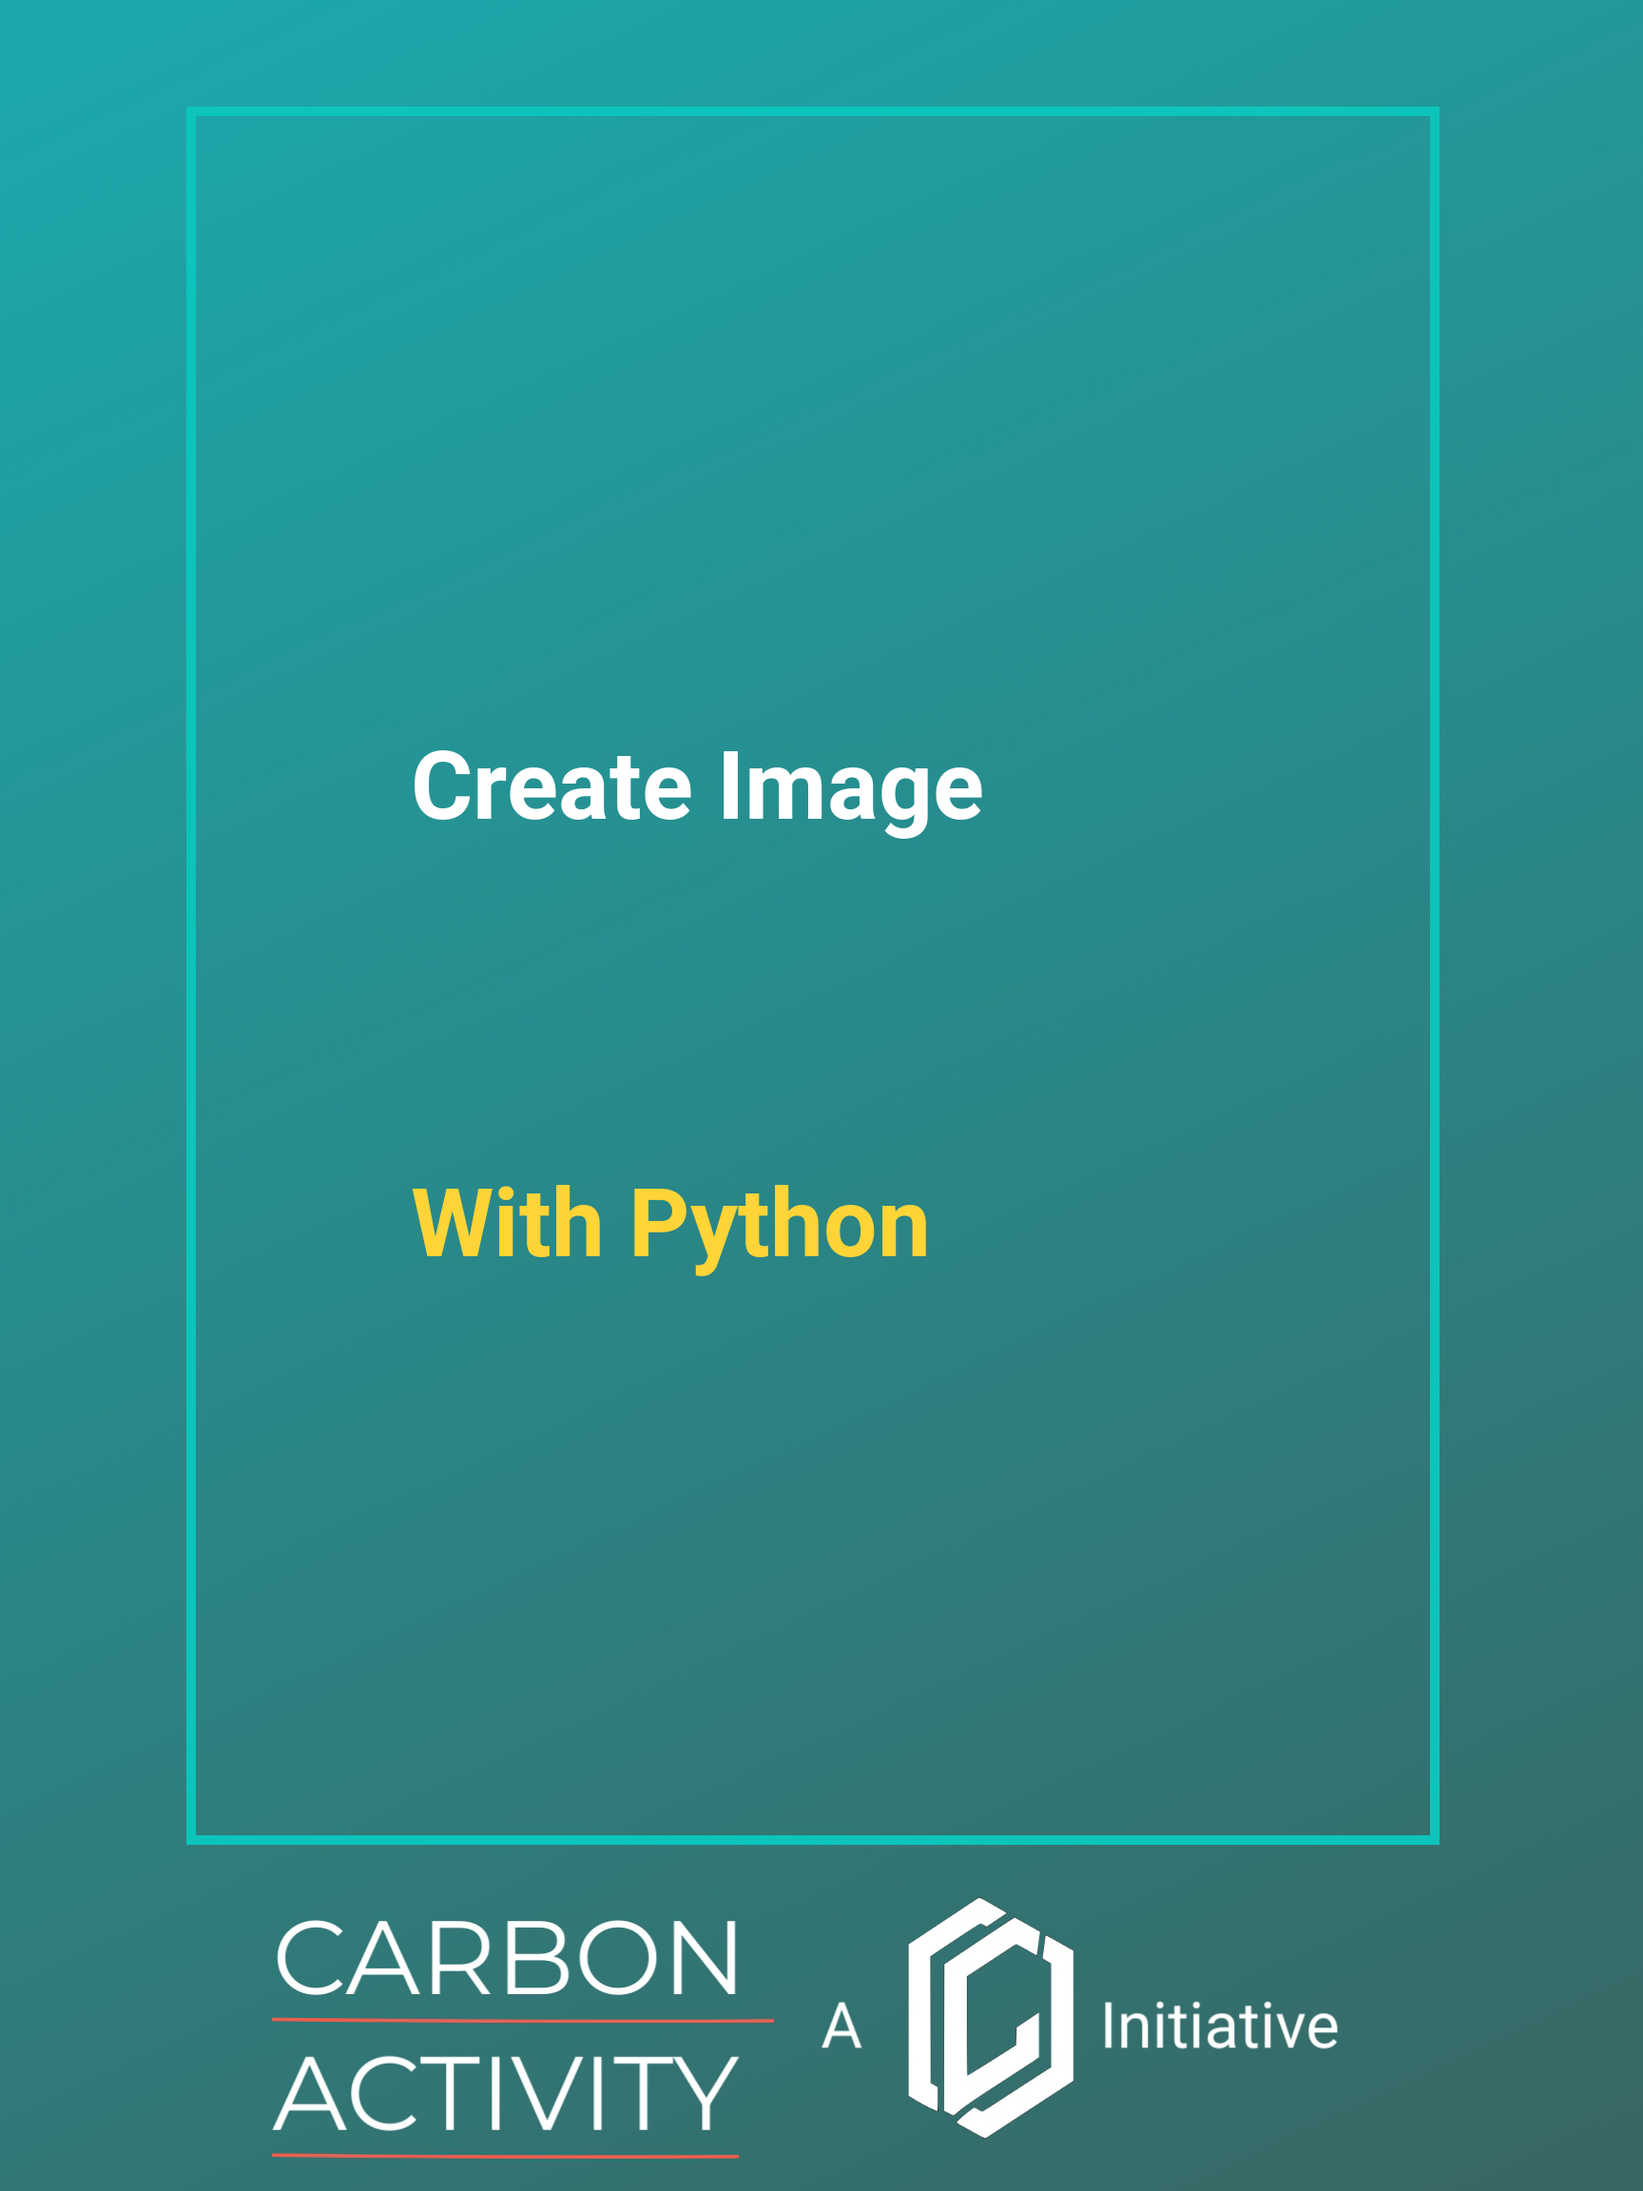
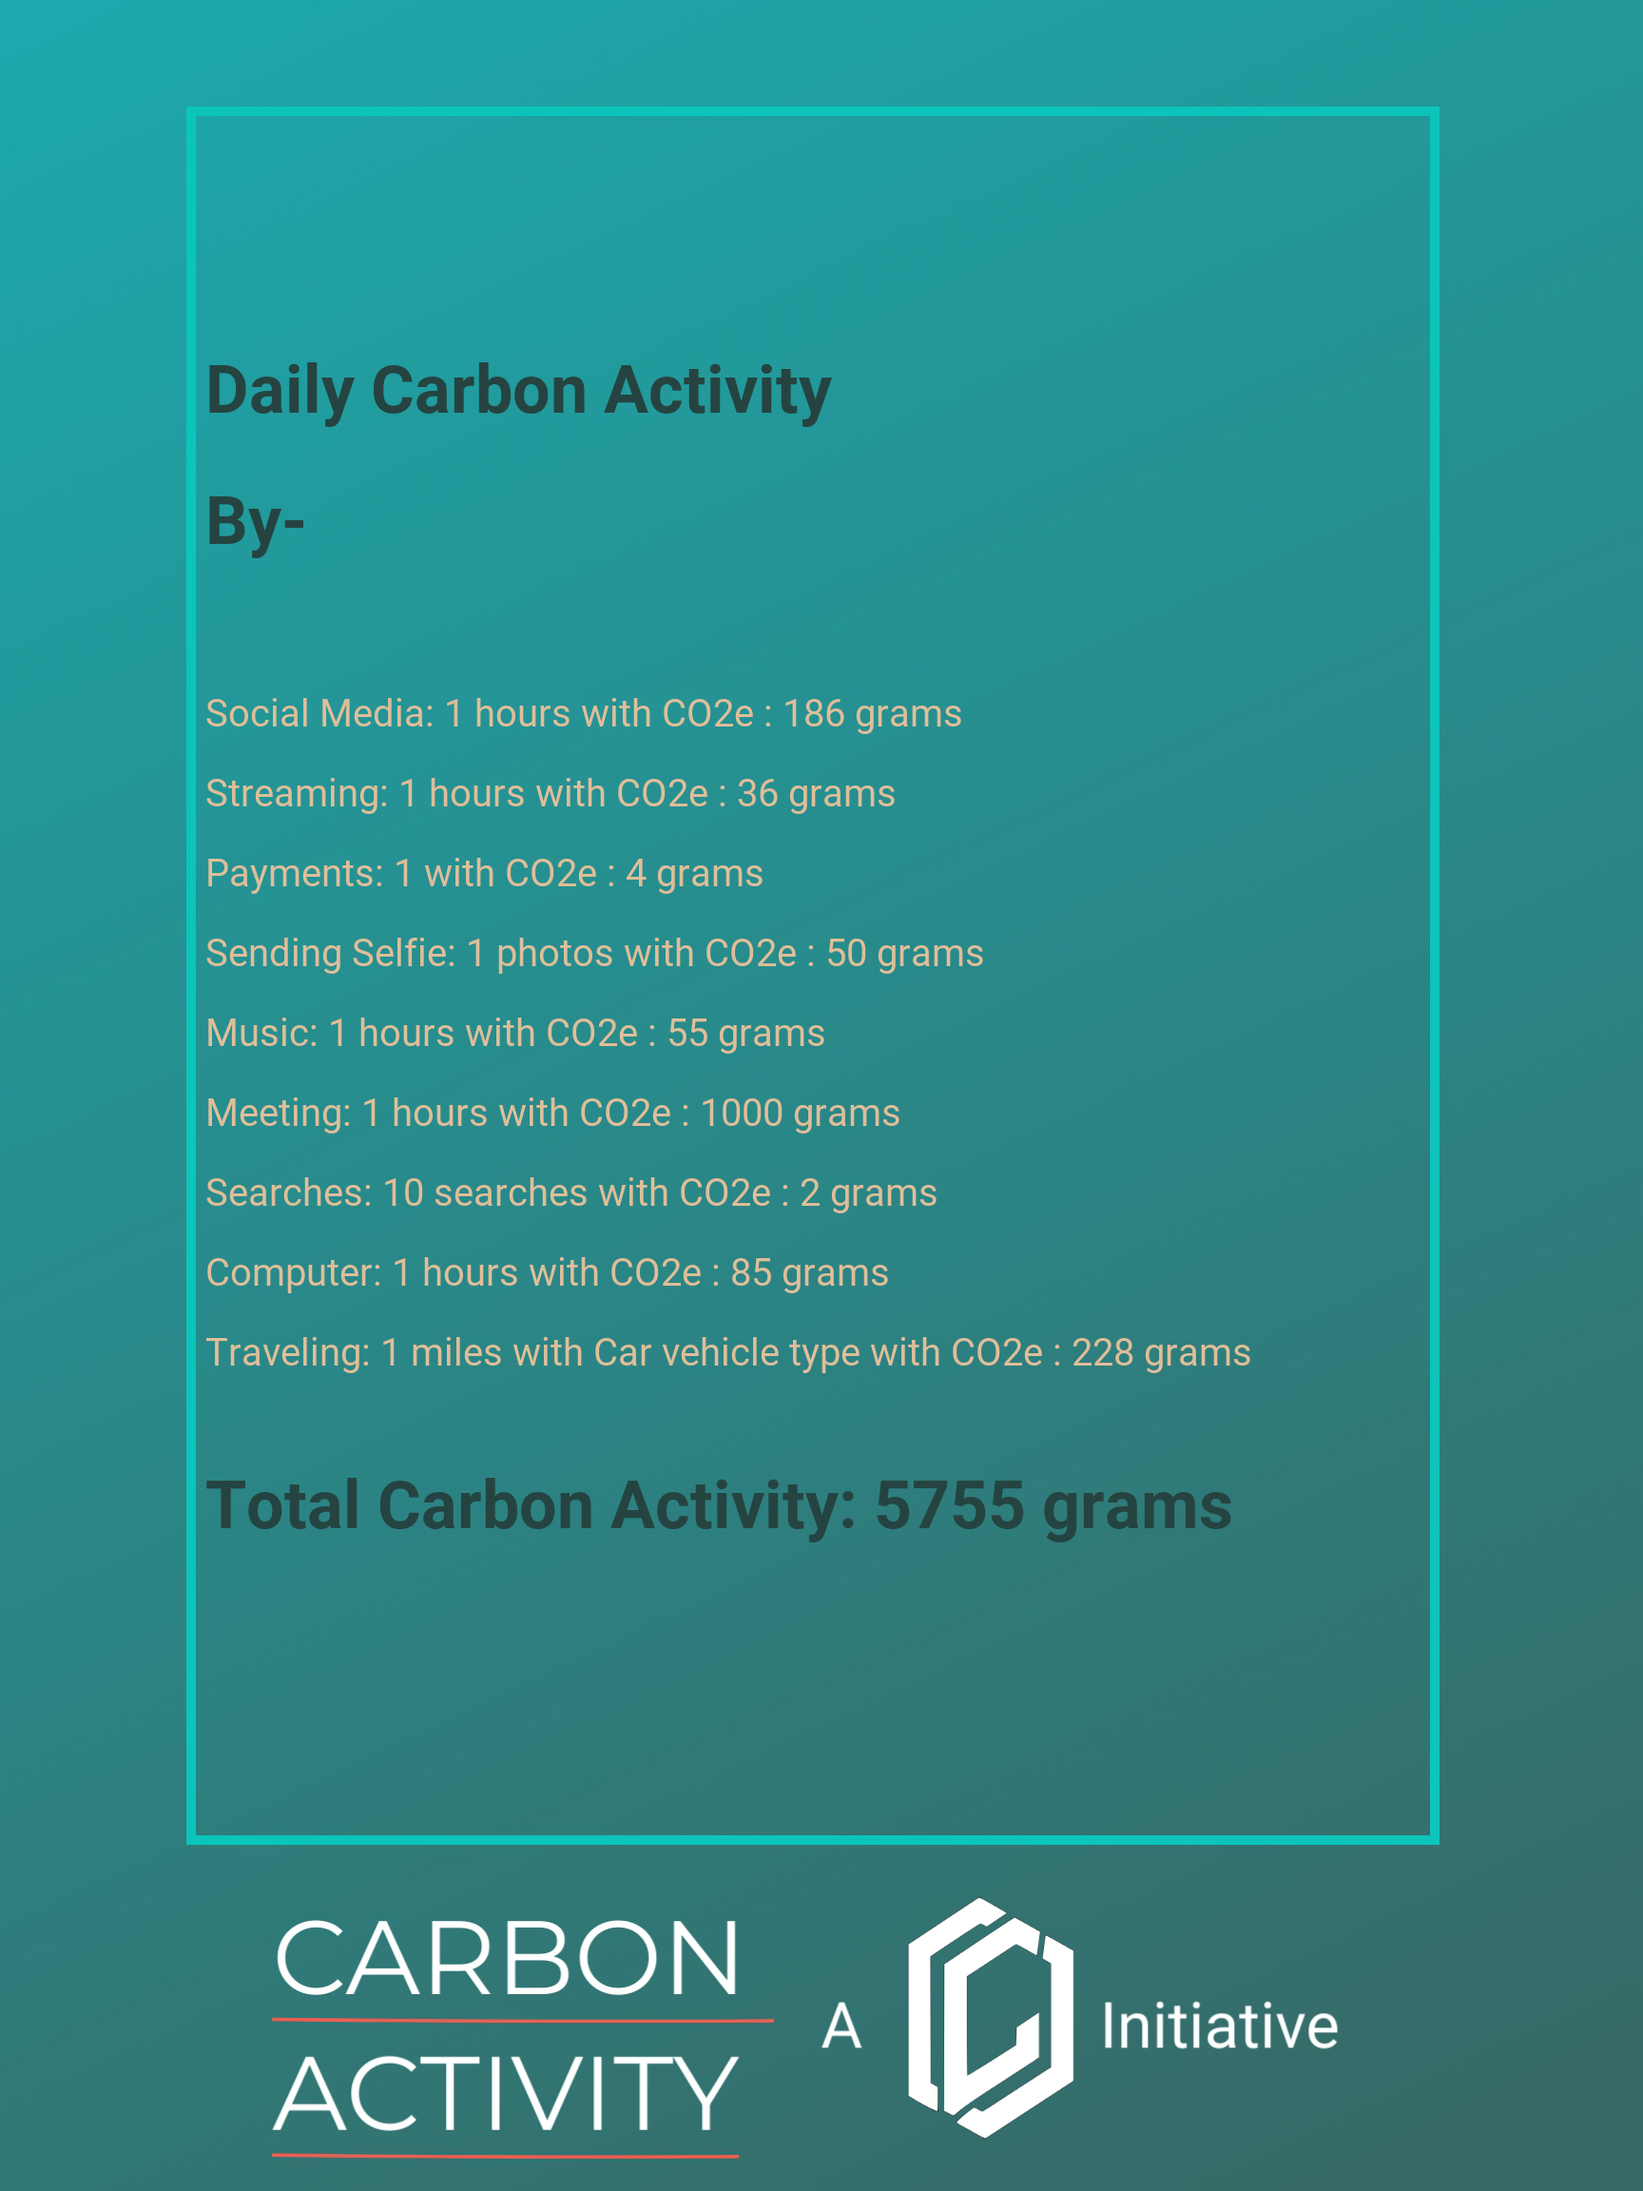
code

diff --git a/main.py b/main.py
@@ -1,30 +1,103 @@
 import streamlit as st
-import numpy as np
-from data.daily import *
-from data.weekly import *
-from data.monthly import *
-from data.annually import *
 from data.output import *
 from PIL import Image, ImageDraw, ImageFont
 
-st.markdown("## Carbon Activity - A Dualchain Initiative")
 
-select= st.selectbox('',['Daily','Weekly','Monthly','Annually','Summary'])
+st.markdown("<h2 style='text-align: center; color:#dfbe99 ;'>Carbon Activity - A Dualchain Initiative</h2>", unsafe_allow_html=True)
 
+name=st.text_input('Name')
 
-intro= st.expander("About")
-intro.markdown(
-    '''
-    - Calculate carbon based on your daily, weekly, monthly and annual activity.
-    - Fill in the details as per your choice or choose a summarized version!
-    - Get our image output based on your carbon activity.
-    - Share it with friends and family!
-    '''
-)
+st.header('Carbon Activity Tracker')
+st.write('Entertainment/Social Media/Expenses')
 
+#1. Social Media Scrolling -93g - 30 mins
+st.caption('Social Media Scrolling:')
+social=st.slider('Hours', 0, 24,1)
+c_social=social*93*2
 
-text1 = "Create Image"
-text2 = 'With Python'
+#2. Netflix - 36g - 1 hour
+st.caption('Streaming Movies/TV Series:')
+stream=st.slider('Streaming Hours', 0, 24,1)
+c_stream=stream*36
+#3. Single credit card payment - 4g
+st.caption('Payments per day:')
+pay=st.slider('Payment',0,100,1,5)
+c_pay=pay*4
+
+#4. Sending selfie - 50g -
+st.caption('Sending Selfie/Snap/Story')
+photo=st.slider('Photo',0,100,1)
+c_photo=50*photo
+
+#8. Streaming music - 138g - 2.5 hours
+st.caption('Streaming Music')
+music=st.slider('Music Hours',0,24,1)
+c_music=int((138/2.5)*music)
+
+st.write('Work Related Activities')
+#5. Virtual Meeting - 1000g - 1 hour
+st.caption('Virtual Meetings')
+meet=st.slider('Meeting Hours',0,24,1)
+c_meet=meet*1000
+
+#6. Google searches - 0.8g - 4 searches
+st.caption('Online Searches')
+search=st.slider('Searches',0,400,10,10)
+c_search=int(0.2*search)
+#7. Using computer - 686g - 8 hours
+st.caption('Using Computer/Laptop in Hours')
+computer=st.slider('Computer Hours',0,24,1)
+c_computer=int((686/8)*computer)
+#10. Traveling -
+st.caption('Traveling')
+miles=st.number_input('Miles',1,1000)
+#	1. Car - 5244g - 23 miles
+#	2. Bus - 2300g - 23 miles
+#	3. Train - 1840g - 23 miles
+type=st.select_slider('Type',['Car','Bus','Train'])
+if type=='Car':
+    c_type=int((5244/23)*miles)
+if type=='Bus':
+    c_type=int((2300/23)*miles)
+if type=='Train':
+    c_type=int((1840/23)*miles)
+#9. Coffee/Tea - 71g - 1 cup
+st.caption('Coffee/Tea Intake')
+cup=st.slider('Cups',0,10,0,1)
+c_cup=cup*71
+
+st.caption('Diet Carbon Footprint')
+st.caption('Vegan - Vegetarian - No Beef - Average - Meat Lover')
+diet=st.select_slider('Diet Type',['Vegan', 'Vegetarian', 'No Beef', 'Average', 'Meat Lover'])
+if diet=='Vegan':
+    c_diet=4109
+if diet=='Vegetarian':
+    c_diet=4657
+if diet=='No Beef':
+    c_diet=5205
+if diet=='Average':
+    c_diet=6849
+if diet=='Meat Lover':
+    c_diet=9041
+
+c=int(c_social + c_cup + c_diet + c_type +c_search + c_computer + c_meet + c_photo + c_music + c_pay + c_stream)
+select= st.selectbox(' ',['Daily','Weekly','Monthly','Annually','Summary'])
+if select=='Daily':
+    text2 = "\n\n\nSocial Media: {} hours with CO2e : {} grams\n\nStreaming: {} hours with CO2e : {} grams\n\nPayments: {} with CO2e : {} grams\n\nSending Selfie: {} photos with CO2e : {} grams\n\nMusic: {} hours with CO2e : {} grams\n\nMeeting: {} hours with CO2e : {} grams\n\nSearches: {} searches with CO2e : {} grams\n\nComputer: {} hours with CO2e : {} grams\n\nTraveling: {} miles with {} vehicle type with CO2e : {} grams\n\n\n ".format(social,c_social,stream,c_stream,pay,c_pay,photo,c_photo,music,c_music,meet,c_meet,search,c_search,computer,c_computer,miles,type,c_type)
+    text1 = '\nDaily Carbon Activity\n\nBy- {} \n\n\n\n\n\n\n\n\n\n\n\n\n\n\nTotal Carbon Activity: {} grams'.format(name,c)
+if select=='Weekly':
+    text1 = "Create Image"
+    text2 = 'Weekly Carbon Activity Initative by {}'.format(name)
+if select=='Monthly':
+    text1 = "Create Image"
+    text2 = 'Monthly Carbon Activity Initative by {}'.format(name)
+if select=='Annually':
+    text1 = "Create Image"
+    text2 ='Annually Carbon Activity Initative by {}'.format(name)
+if select=='Summary':
+    text1 = "Create Image"
+    text2 = 'Summary Carbon Activity Initative by {}'.format(name)
+
 img_name = 'Output.png'
 background= Image.open('./data/Background.jpg')
 color = 'dark_blue'  # grey,light_blue,blue,orange,purple,yellow,green
@@ -39,3 +112,15 @@ with open("Output.png", "rb") as file:
             file_name="Output.png",
             mime="image/png"
           )
+
+
+
+intro= st.expander("About")
+intro.markdown(
+    '''
+    - Calculate carbon based on your daily, weekly, monthly and annual activity.
+    - Fill in the details as per your choice or choose a summarized version!
+    - Get our image output based on your carbon activity.
+    - Share it with friends and family!
+    '''
+)

diff --git a/data/output.py b/data/output.py
@@ -28,7 +28,7 @@ def center_text(img, font, text1, text2, fill1, fill2):
     return img
 
 
-def add_text(img, color, text1, text2, logo=False, font='Roboto-Bold.ttf', font_size=100):
+def add_text(img, color, text1, text2, logo=False, font='Roboto-Regular.ttf', font_size=40):
     draw = ImageDraw.Draw(img)
 
     p_font = color['p_font']
@@ -38,14 +38,15 @@ def add_text(img, color, text1, text2, logo=False, font='Roboto-Bold.ttf', font_
     img_w, img_h = img.size
     height = img_h // 3
     font = ImageFont.truetype(font, size=font_size)
+    font2 = ImageFont.truetype('Roboto-Bold.ttf', size=70)
 
     if logo == False:
         center_text(img, font, text1, text2, p_font, s_font)
     else:
-        text1_offset = (img_w // 4, height)
-        text2_offset = (img_w // 4, height + img_h // 5)
-        draw.text(text1_offset, text1, fill=p_font, font=font)
-        draw.text(text2_offset, text2, fill=s_font, font=font)
+        text1_offset = (img_w // 8, 300)
+        text2_offset = (img_w // 8, 600)
+        draw.text(text1_offset, text1, fill='#254441', font=font2)
+        draw.text(text2_offset, text2, fill='#dfbe99', font=font)
     return img
 
 
